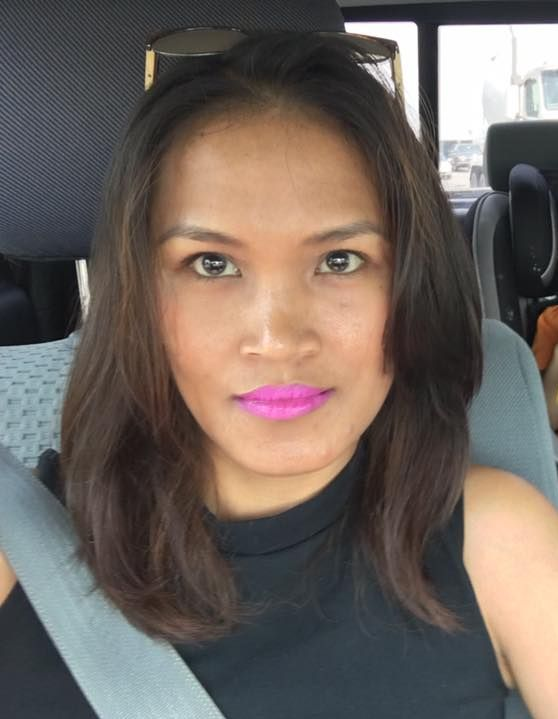
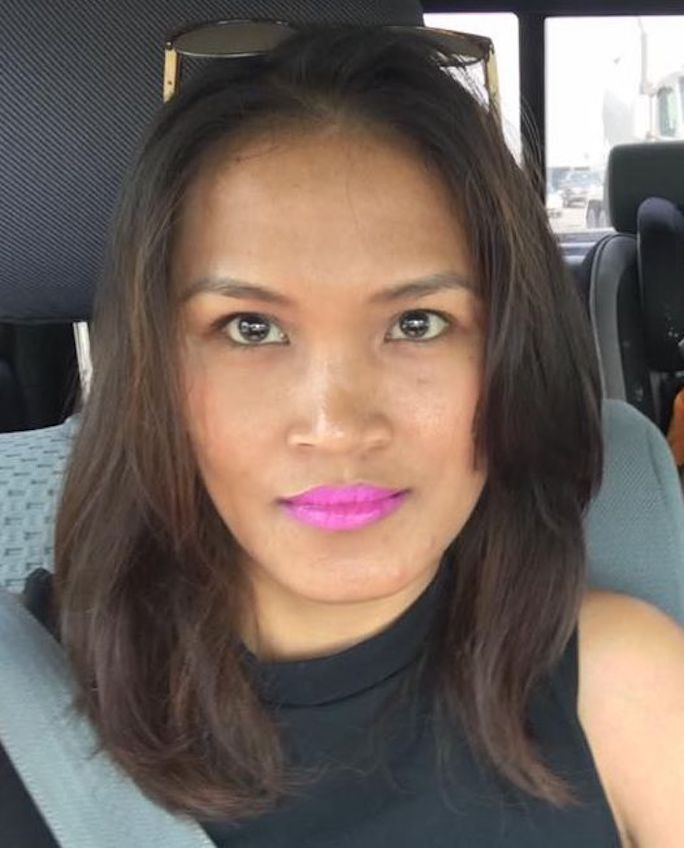
photos of team

diff --git a/public/index.html b/public/index.html
@@ -165,7 +165,7 @@
         <div class="col-md-3">
           <div class="thumbnail">
             <a href="/w3images/fjords.jpg">
-              <img class="img-circle" src="./assets/img/espie.jpg" alt="Esperanza" style="width:80%">
+              <img class="img-circle" src="./assets/img/es.jpeg" alt="Esperanza" style="width:80%">
               <div class="caption">
                 <p>Lorem ipsum...</p>
               </div>
@@ -175,7 +175,7 @@
         <div class="col-md-3">
           <div class="thumbnail">
             <a href="./assets/img/haley.png">
-              <img class="img-circle" src="./assets/img/haley.jpg" alt="Haley" style="width:80%">
+              <img class="img-circle" src="./assets/img/haley2.jpg" alt="Haley" style="width:80%">
               <div class="caption">
                 <p>Lorem ipsum...</p>
               </div>
